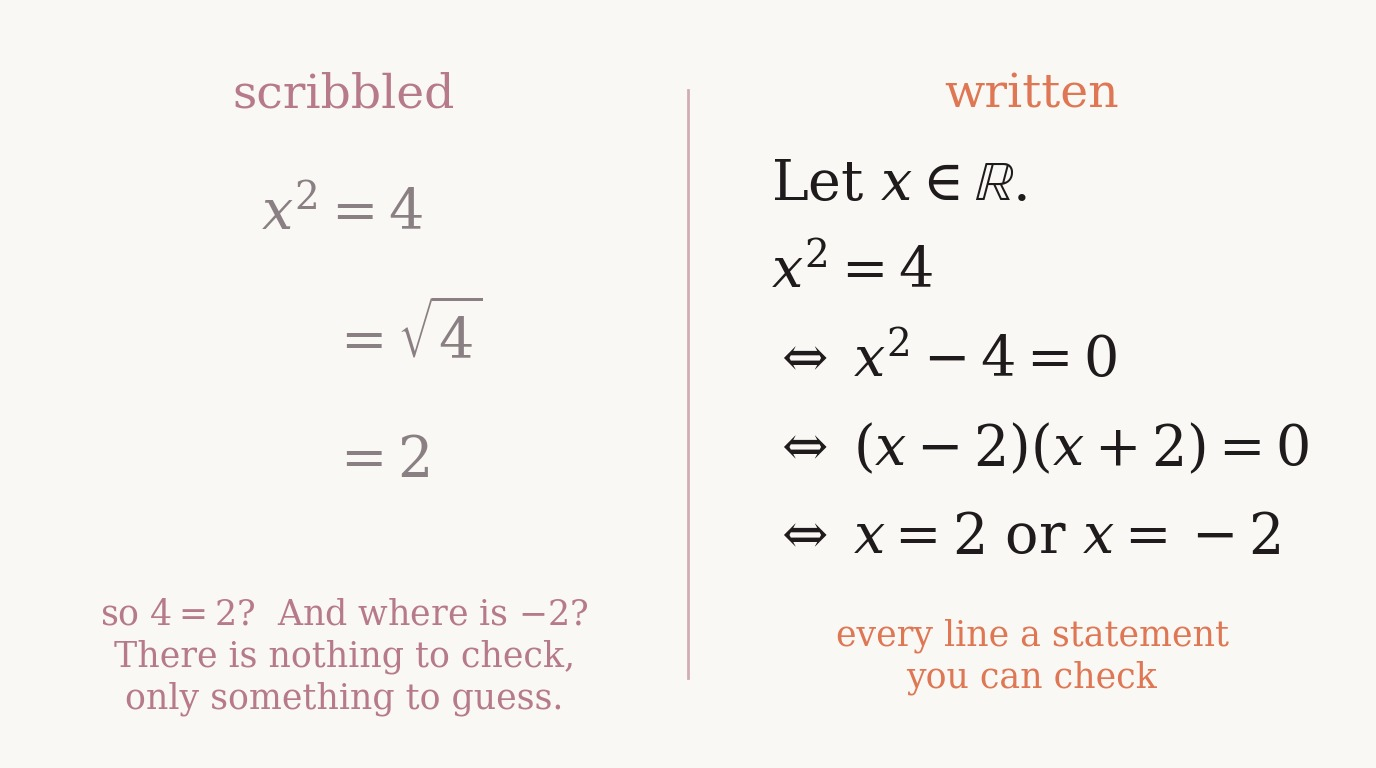
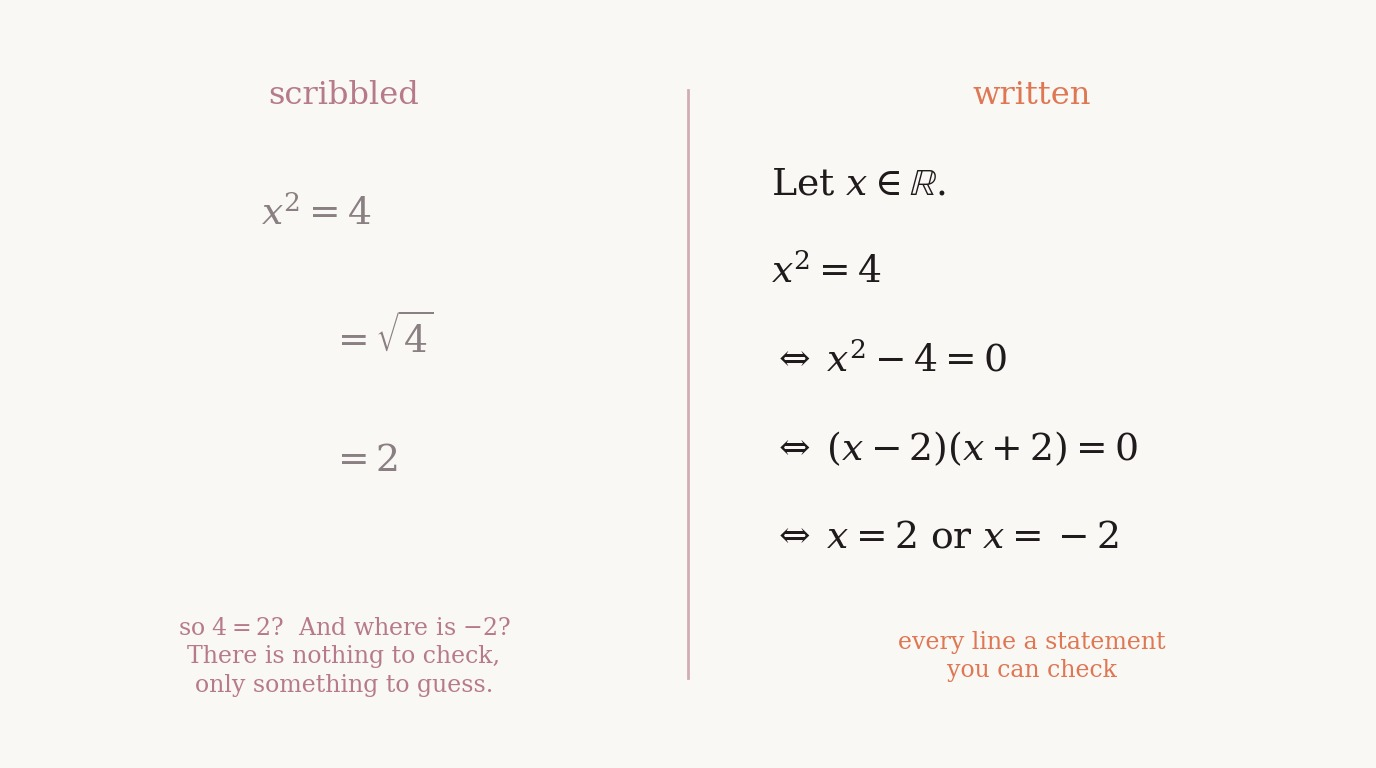
math-writing: split figures with smaller type, cropped to content

diff --git a/math-writing/math_writing_card.py b/math-writing/math_writing_card.py
@@ -33,13 +33,14 @@ if mode == 'card':
     ax.text(W * 0.5, H * 0.17, 'So $4 = 2$?  And where is $-2$?', ha='center', va='center', fontsize=40,
             linespacing=1.3, family='serif', color='#874C62')
 else:
+    k = 0.68 if mode == 'split' else 1.0   # split: smaller type, matching the small diagrams in the article
     ax.plot([W / 2, W / 2], [90, H - 90], color=ROSE, lw=2, alpha=0.6)
-    ax.text(W * 0.25, H - 95, 'scribbled', ha='center', va='center', fontsize=34, family='serif', color=ROSE)
-    ax.text(W * 0.75, H - 95, 'written', ha='center', va='center', fontsize=34, family='serif', color=TERRA)
+    ax.text(W * 0.25, H - 95, 'scribbled', ha='center', va='center', fontsize=34 * k, family='serif', color=ROSE)
+    ax.text(W * 0.75, H - 95, 'written', ha='center', va='center', fontsize=34 * k, family='serif', color=TERRA)
     left = [(r'$x^2 = 4$', 0.19), (r'$= \sqrt{4}$', 0.24), (r'$= 2$', 0.24)]
     for i, (t, xf) in enumerate(left):
-        ax.text(W * xf, H * 0.72 - i * 0.16 * H, t, ha='left', va='center', fontsize=40, color=MUTED, family='serif')
-    ax.text(W * 0.25, H * 0.145, caption_left, ha='center', va='center', fontsize=25,
+        ax.text(W * xf, H * 0.72 - i * 0.16 * H, t, ha='left', va='center', fontsize=40 * k, color=MUTED, family='serif')
+    ax.text(W * 0.25, H * 0.145, caption_left, ha='center', va='center', fontsize=25 * k,
             linespacing=1.3, family='serif', color=ROSE)
     lines = [r'Let $x \in \mathbb{R}$.',
              r'$x^2 = 4$',
@@ -47,13 +48,19 @@ else:
              r'$\Leftrightarrow\; (x-2)(x+2) = 0$',
              r'$\Leftrightarrow\; x = 2$ or $x = -2$']
     for i, t in enumerate(lines):
-        ax.text(W * 0.56, H * 0.76 - i * 0.115 * H, t, ha='left', va='center', fontsize=40, color=DARK, family='serif')
-    ax.text(W * 0.75, H * 0.145, caption_right, ha='center', va='center', fontsize=25,
+        ax.text(W * 0.56, H * 0.76 - i * 0.115 * H, t, ha='left', va='center', fontsize=40 * k, color=DARK, family='serif')
+    ax.text(W * 0.75, H * 0.145, caption_right, ha='center', va='center', fontsize=25 * k,
             linespacing=1.3, family='serif', color=TERRA)
 
 fig.savefig(sys.argv[1], dpi=100, facecolor=IVORY, pil_kwargs={'quality': 92})
 if mode == 'split':
     from PIL import Image
-    im = Image.open(sys.argv[1]); stem = sys.argv[1].rsplit('.', 1)[0]
-    im.crop((0, 40, W // 2 - 20, H - 20)).save(stem + '_scribbled.jpg', quality=92)
-    im.crop((W // 2 + 20, 40, W, H - 20)).save(stem + '_written.jpg', quality=92)
+    from PIL import ImageChops
+    im = Image.open(sys.argv[1]).convert('RGB'); stem = sys.argv[1].rsplit('.', 1)[0]
+    halves = [im.crop((0, 0, W // 2 - 20, H)), im.crop((W // 2 + 20, 0, W, H))]
+    bg = Image.new('RGB', halves[0].size, IVORY)
+    boxes = [ImageChops.difference(h, bg).convert('L').point(lambda v: 255 if v > 24 else 0).getbbox() for h in halves]  # ignore JPEG noise
+    top, bottom = min(b[1] for b in boxes) - 36, max(b[3] for b in boxes) + 36   # same height for both
+    for h, b, name in zip(halves, boxes, ('_scribbled.jpg', '_written.jpg')):
+        cx = (b[0] + b[2]) // 2; half_w = max(b[2] - b[0], 420) // 2 + 36
+        h.crop((max(0, cx - half_w), max(0, top), min(h.width, cx + half_w), min(h.height, bottom))).save(stem + name, quality=92)
